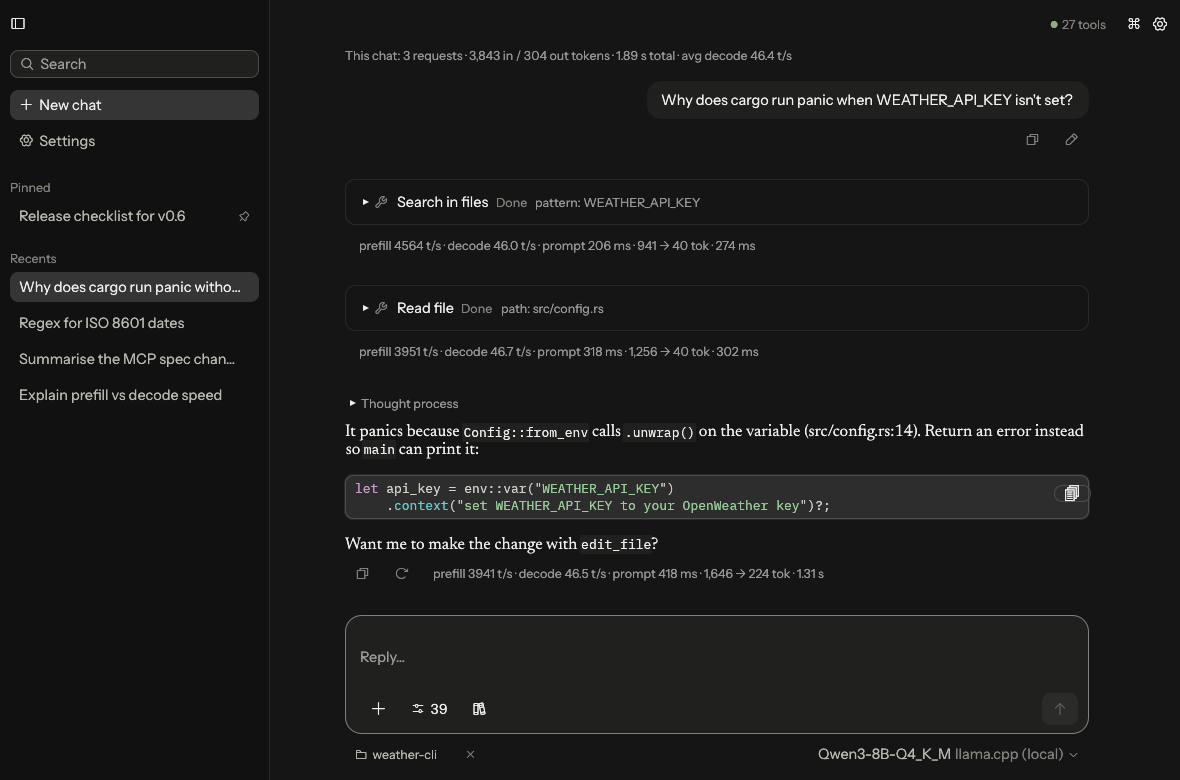
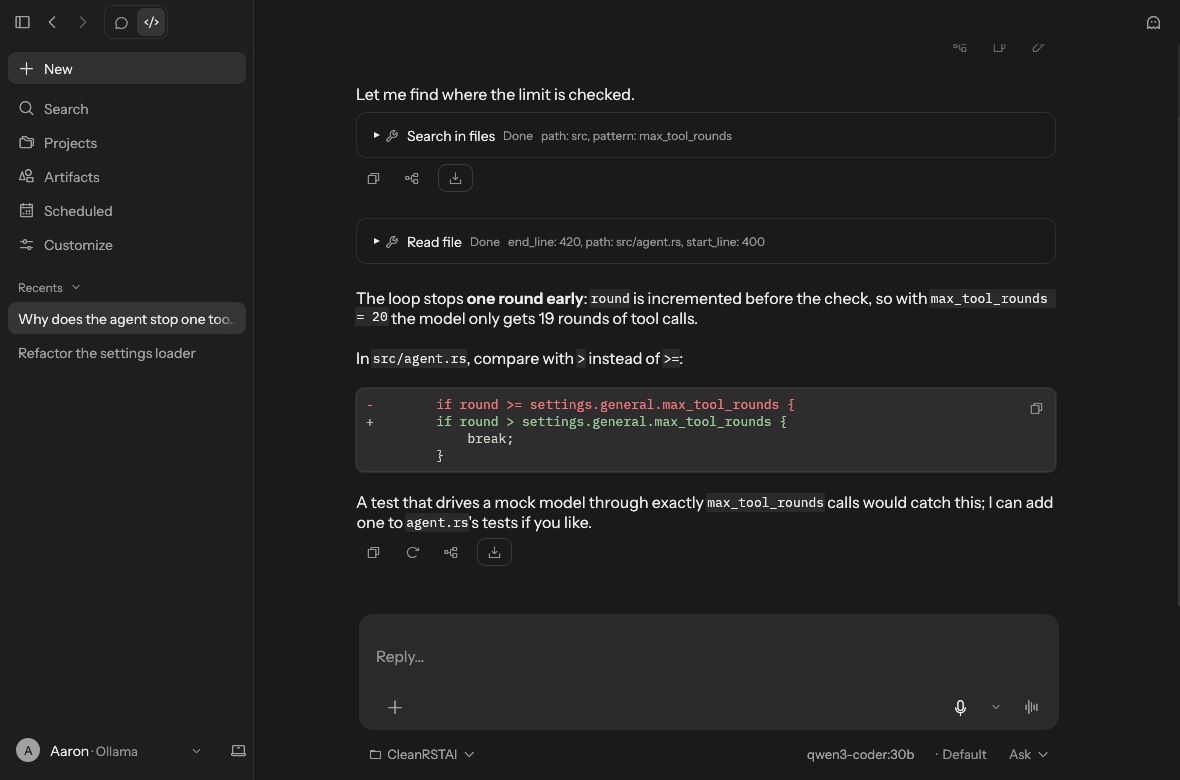
Release v0.9.2: docs for the new design, fixes
Docs: the home page's highlights and "where to start" table, the Using the
App index, and the README now cover the v0.9.2 features (the new design,
Chat/Code, scheduled agents, projects, memory, permission modes and plan
mode, branches, voice and voice mode, save as files, OCR, provider web
search, commits). New screenshots in the new design: the main chat, the
tools menu, MCP settings and the Scheduled page.

Fixes:
- Upcoming dates read "Tomorrow" or the weekday instead of "Today" (the
  Scheduled page's next run).
- The tools menu no longer says "Incognito" for every chat while memory is
  off in Settings.

Bump the version to 0.9.2.

Claude-Session: https://claude.ai/code/session_01LiytgBWXCmGrot9xZpczck

diff --git a/src/ui/chat_view.rs b/src/ui/chat_view.rs
@@ -1097,18 +1097,21 @@ pub fn greeting_text(
     }
 }
 
-/// A short date for cards: "Today", "Yesterday", "Mon", "Oct 28" or "Oct 28, 2025".
+/// A short date for cards and run times: "Today", "Yesterday", "Tomorrow", a weekday within a
+/// week either way, "Oct 28" or "Oct 28, 2025".
 pub fn short_date(
     when: chrono::DateTime<chrono::Local>,
     now: chrono::DateTime<chrono::Local>,
 ) -> String {
     let (day, today) = (when.date_naive(), now.date_naive());
     let days = (today - day).num_days();
-    if days <= 0 {
+    if days == 0 {
         "Today".to_owned()
     } else if days == 1 {
         "Yesterday".to_owned()
-    } else if days < 7 {
+    } else if days == -1 {
+        "Tomorrow".to_owned()
+    } else if (-6..7).contains(&days) {
         when.format("%a").to_string()
     } else if chrono::Datelike::year(&day) == chrono::Datelike::year(&today) {
         when.format("%b %-d").to_string()
@@ -1187,6 +1190,10 @@ mod tests {
         assert_eq!(short_date(at(9, 2), now), "Sep 2");
         let old = chrono::Local.with_ymd_and_hms(2025, 1, 5, 9, 0, 0).unwrap();
         assert_eq!(short_date(old, now), "Jan 5, 2025");
+        // Upcoming runs, on the Scheduled page.
+        assert_eq!(short_date(at(10, 31), now), "Tomorrow");
+        assert_eq!(short_date(at(11, 3), now), "Tue");
+        assert_eq!(short_date(at(11, 20), now), "Nov 20");
     }
 
     #[test]

diff --git a/src/app.rs b/src/app.rs
@@ -823,6 +823,7 @@ impl ChatApp {
             .get(&self.settings.general.skills, workspace_dir.as_deref())
             .is_empty();
         let in_project = self.in_listed_project_chat();
+        let memory_on = self.settings.general.memory.enabled;
         let sel = ToolSelection::new(&self.settings, &overrides)
             .with_mode(permissions.mode)
             .with_skills(has_skills);
@@ -897,7 +898,9 @@ impl ChatApp {
                         .small()
                         .weak(),
                 );
-                if !sel.feature_on(crate::tools::MEMORY) {
+                // Only a chat that switched memory off is incognito, not every chat while
+                // memory is off in Settings.
+                if memory_on && !sel.feature_on(crate::tools::MEMORY) {
                     ui.label(
                         RichText::new(format!(
                             "{}  Incognito: no memories for this chat",

diff --git a/docs/index.md b/docs/index.md
@@ -12,20 +12,38 @@ per-chat workspace folder.
 macOS is the primary platform and Linux is fully supported. Windows builds are released
 too, as an installer and a portable `.exe`.
 
-![A chat working in a project folder: the model searches the code, reads a file and suggests a fix]({{ '/screenshot.png' | relative_url }})
+![A chat in Code mode: the model searches the code, reads a file and suggests a fix]({{ '/screenshot.png' | relative_url }})
 
 ## Highlights
 
+- **A calm, dark-first design**: a sidebar with Search, Projects, Artifacts, Scheduled agents
+  and your recent chats; a home screen with a greeting, the message box in the middle and your
+  newest artifacts; back and forward through what you opened; a **Chat / Code** switch (Code
+  lists the chats that work in a folder); Settings as a dimmed window over the app, with an
+  Appearance page and **Reduce motion**.
+- **Scheduled agents**: prompts that run on a schedule (every so many minutes, daily or
+  weekly), each in a chat of its own, with their recent runs on the **Scheduled** page.
+- **Projects**: group chats with shared instructions, files, a folder, a model and tool
+  switches.
+- **Memory**: facts the model saves about you and uses in later chats (off by default), and
+  incognito chats that use none.
+- **Permission modes per chat**: ask, auto in the folder, allow all, read only, or **Plan**
+  (the model proposes a plan, and it runs once you approve).
+- **Branches**: regenerate or edit a message and keep every version, with arrows to switch.
+- **Voice**: dictate with the microphone (and pick the input device), have replies read aloud,
+  or talk back and forth in **voice mode**.
+- **Save replies as files**: Word, PDF or Excel from a reply or an artifact.
 - **Any OpenAI-compatible API**: OpenAI, OpenRouter, Groq, Mistral, DeepSeek, Together, Gemini,
   or local servers such as Ollama, LM Studio, llama.cpp and vLLM.
 - **Streaming replies** with speed and token stats, and a *Thought process* section for
   reasoning models.
 - **Skills**: folders of instructions the model loads when a task matches, from your skills folder or a chat's workspace
 - **Hooks**: commands that run before or after a tool call, or when a reply is done, set in Settings and switched per chat
-- **Built-in tools**: time and date, calculator, task list and web fetch, with no MCP server
-  needed.
+- **Built-in tools**: time and date, calculator, task list, web fetch and web search (or the
+  provider's own search with Anthropic, OpenAI and OpenRouter), with no MCP server needed.
 - **Workspace**: give a chat a folder and the model can read, search, edit and run commands in
-  it, asking before anything that writes.
+  it, asking before anything that writes; every edit shows a diff and can be undone, and the
+  model can commit the changes (off by default, never pushes).
 - **MCP client**: stdio and Streamable HTTP servers, OAuth sign-in, resources and prompts.
 - **Subagents**: the model can hand independent tasks to agents that work in parallel.
 - **Background replies**: keep working in other chats while one replies; desktop notifications
@@ -33,7 +51,7 @@ too, as an installer and a portable `.exe`.
 - **Artifacts**: web pages, SVGs, Mermaid diagrams, Markdown documents and longer code from a
   reply open in a side panel, with a link in the chat.
 - **Attachments**: images for vision models; PDF, Office, OpenDocument, RTF and text files as
-  text.
+  text, and scanned PDFs read with OCR.
 - **Docker sandbox**: run the model's shell commands in a container with only the chat's
   folder, resource limits, and no network or only the hosts, ports and protocols you allow;
   subagents can get containers of their own.
@@ -50,6 +68,10 @@ too, as an installer and a portable `.exe`.
 | Install the app | [Installation](getting-started/installation.html) |
 | Connect a model and send a first message | [Your first chat](getting-started/first-chat.html) |
 | Learn the chat window | [Chats](using/chats.html) |
+| Run a prompt on a schedule | [Scheduled agents](using/chats.html#scheduled-agents) |
+| Group chats with shared instructions | [Projects](using/projects.html) |
+| Talk instead of typing | [Voice](using/voice.html) |
+| Change the theme, size or motion | [Appearance](settings/appearance.html) |
 | Let the model use tools or a folder | [Tools and approvals](using/tools.html) |
 | Add MCP servers | [MCP servers](using/mcp.html) |
 | Run the model's commands in a container | [Docker sandbox](settings/docker.html) |

diff --git a/README.md b/README.md
@@ -21,7 +21,7 @@ endpoint and gives the model tools through **MCP servers** (stdio and Streamable
 macOS is the primary platform and Linux is fully supported. Windows builds are released
 too, as an installer and a portable `.exe`.
 
-![A chat working in a project folder: the model searches the code, reads a file and suggests a fix](docs/screenshot.png)
+![A chat in Code mode: the model searches the code, reads a file and suggests a fix](docs/screenshot.png)
 
 ## Features
 
@@ -251,10 +251,10 @@ too, as an installer and a portable `.exe`.
 
 | | |
 |---|---|
-| ![A new chat: greeting, message box and model picker](docs/new-chat.png) | ![The tools menu with built-in, workspace and MCP tools](docs/tools-menu.png) |
-| A new chat | Per-chat tool switches |
-| ![Subagents, the calculator and the task list in a chat](docs/tools-subagents.png) | ![MCP server settings](docs/settings-mcp.png) |
-| Subagents, calculator and task list | MCP server settings |
+| ![The home screen: greeting, message box and recent artifacts](docs/new-chat.png) | ![The + menu with this chat's tools](docs/tools-menu.png) |
+| The home screen | Per-chat tool switches |
+| ![The Scheduled page with two agents and their recent runs](docs/scheduled.png) | ![MCP server settings](docs/settings-mcp.png) |
+| Scheduled agents | MCP server settings |
 
 ## Build & run
 

diff --git a/docs/using/index.md b/docs/using/index.md
@@ -7,7 +7,10 @@ nav_order: 3
 
 How to work with CleanRSTAI day to day.
 
-- [Chats](chats.html): the chat window, sending, editing, attachments, search and export.
+- [Chats](chats.html): the window (sidebar, home screen, Chat and Code modes, the Projects,
+  Artifacts and Scheduled pages), sending, editing, attachments, search and export.
+- [Scheduled agents](chats.html#scheduled-agents): prompts that run on a schedule, and their
+  recent runs.
 - [Tools and approvals](tools.html): built-in tools, the workspace folder, per-chat tool
   switches and approving tool calls.
 - [MCP servers](mcp.html): connecting Model Context Protocol servers, signing in, resources
@@ -21,7 +24,8 @@ How to work with CleanRSTAI day to day.
   with network rules.
 - [Command line](command-line.html): running one request from a terminal or a script with
   `cleanrstai exec`.
-- [Voice](voice.html): dictating into the message box and having replies read aloud.
+- [Voice](voice.html): dictating into the message box, choosing the microphone, having replies
+  read aloud, and voice mode.
 - [Updates](updates.html): checking for and installing new versions.
 - [Remote access](remote-access.html): using your chats from a browser on a phone or another
   computer, and its security.

diff --git a/roadmap.md b/roadmap.md
@@ -35,7 +35,8 @@ sidebar with pages and a title row with back/forward and a Chat/Code switch, the
 a serif greeting and recent artifacts, the strip of pickers under the message box, skills in the
 slash menu, voice mode and a microphone picker, Settings as a modal with an Appearance page, and
 reduce motion) in **v0.9.2-dev.6**, and the Scheduled page for scheduled agents in
-**v0.9.2-dev.7**, and the title row fitting beside the macOS traffic lights in **v0.9.2-dev.8**. Signed builds are not planned.
+**v0.9.2-dev.7**, and the title row fitting beside the macOS traffic lights in **v0.9.2-dev.8**; all of them reached the stable release in **v0.9.2**. Signed builds are
+not planned.
 Unticked items are still open.
 
 ## 1. Display prefill and decode speed per request

diff --git a/docs/using/chats.md b/docs/using/chats.md
@@ -387,6 +387,8 @@ unless the agent catches up.
 
 **Scheduled** in the sidebar opens the agents' page:
 
+![The Scheduled page with two agents and their recent runs]({{ '/scheduled.png' | relative_url }})
+
 - **New agent** opens the editor: a name, the prompt, **Repeats** (an interval, every day or
   every week, and the time), **Runs in** (a new chat each time, or a chat you pick), **Approvals**
   (read only by default), a **Folder**, a **Provider**, and whether a missed run catches up.
